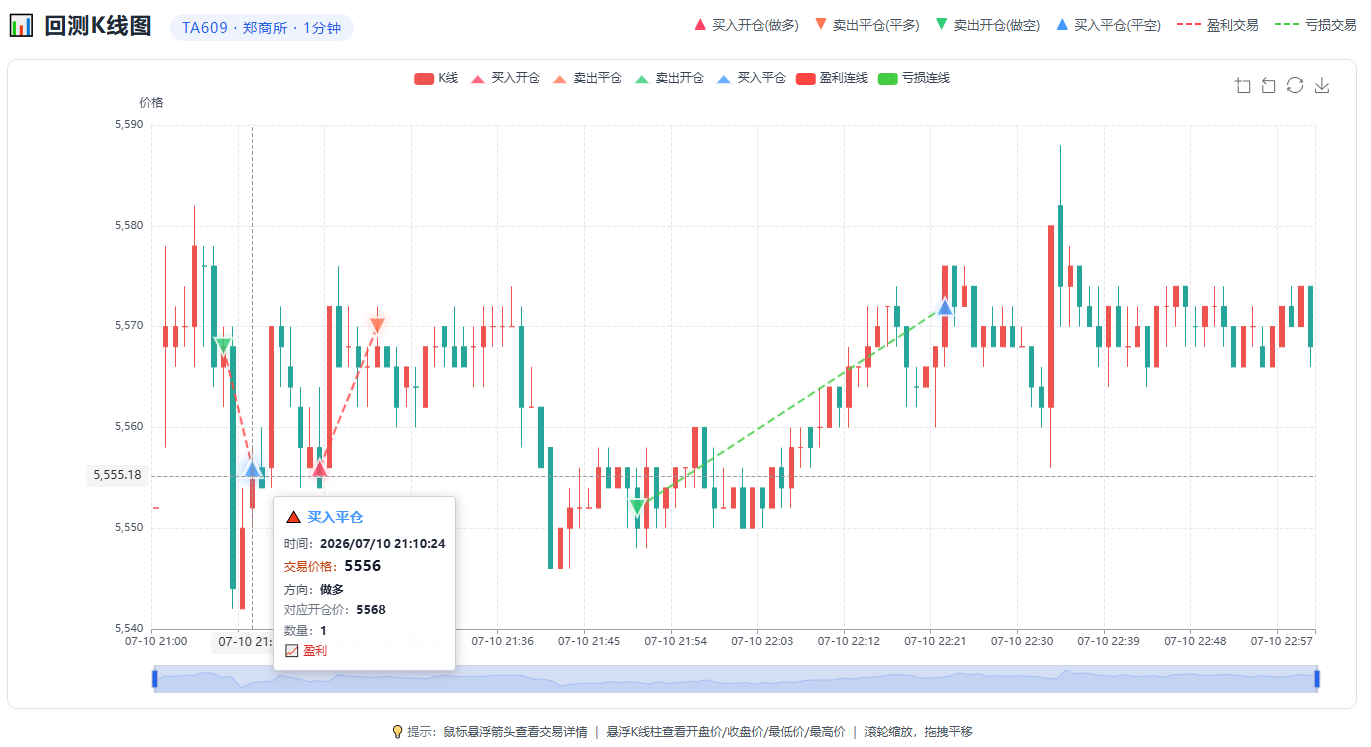
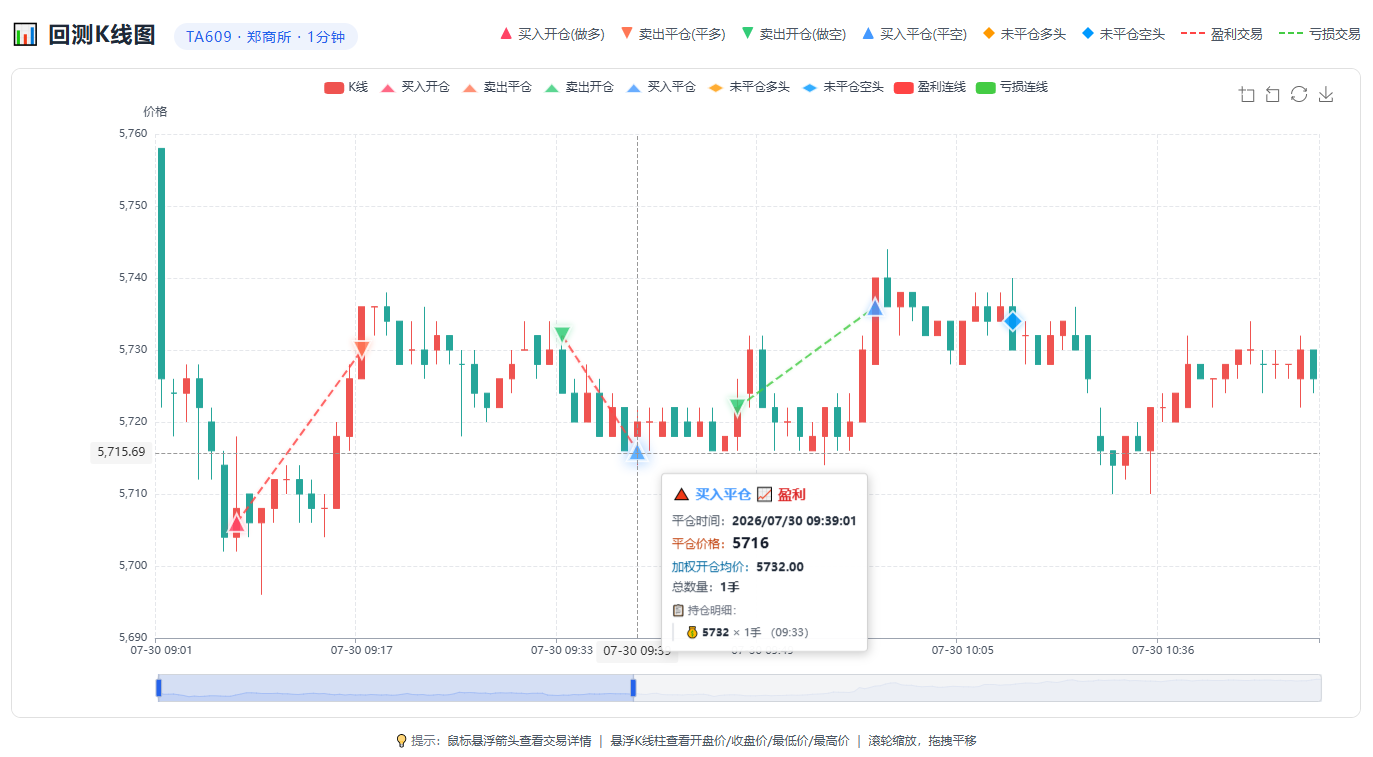
1，优化：类_K线生成器；2，更新：运行示例、images、README.md；3，优化：模块_回测引擎中的参数优化；4，优化：类_回测K线图生成器；5、解决tick表唯一索引造成的数据覆盖。

diff --git a/xmpy/包_交易核心/模块_工具.py b/xmpy/包_交易核心/模块_工具.py
@@ -269,7 +269,7 @@ class 类_K线生成器:
 
         return 小时, 分钟
 
-    def _设置收盘定时器(self, 目标时间: datetime,夜盘 = False) -> None:
+    def _设置收盘定时器(self, 目标时间: datetime, 午盘 = False, 夜盘 = False) -> None:
         """启动一个定时器，在目标时间执行收盘回调"""
         if self.收盘定时器 is not None:
             return
@@ -285,6 +285,10 @@ class 类_K线生成器:
                         目标小时 += 1
                         目标分钟 -= 60
                     self.当前K线.时间戳 = self.最后Tick缓存.时间戳.replace(hour=目标小时, minute=目标分钟, second=0, microsecond=0)
+                elif 午盘:
+                    目标小时 = 11
+                    目标分钟 = 30
+                    self.当前K线.时间戳 = self.最后Tick缓存.时间戳.replace(hour=目标小时, minute=目标分钟, second=0,microsecond=0)
                 else:
                     目标小时 = self.日盘小时
                     目标分钟 = self.日盘分钟
@@ -366,6 +370,22 @@ class 类_K线生成器:
             self._更新K线数据(tick)
             return True
 
+        # 10:15临休
+        if self.当前K线 and tick.时间戳.hour == 10 and 15 <= tick.时间戳.minute <= 16:
+            self._更新K线数据(tick)
+            self.当前K线.时间戳 = self.最后Tick缓存.时间戳.replace(hour=10, minute=15, second=0, microsecond=0)
+            self.K线回调(self.当前K线)
+            self.当前K线 = None
+            return True
+
+        # 11:30午休
+        if self.当前K线 and tick.时间戳.hour == 11 and 30 <= tick.时间戳.minute <= 35:
+            self._更新K线数据(tick)
+            self.当前K线.时间戳 = self.最后Tick缓存.时间戳.replace(hour=11, minute=30, second=0, microsecond=0)
+            self.K线回调(self.当前K线)
+            self.当前K线 = None
+            return True
+
         # 日盘收盘（15:00 或 15:15后不再接受新数据）
         if self.当前K线 and tick.时间戳.hour == self.日盘小时 and 0 <= tick.时间戳.minute <= self.日盘分钟 + 6:
             self._更新K线数据(tick)
@@ -426,6 +446,28 @@ class 类_K线生成器:
             self._更新K线数据(tick)
             return True
 
+        # 10:15临休
+        if self.当前K线 and tick.时间戳.hour == 10 and 15 <= tick.时间戳.minute <= 16:
+            self._更新K线数据(tick)
+            self.当前K线.时间戳 = self.最后Tick缓存.时间戳.replace(hour=10, minute=15, second=0, microsecond=0)
+            self.K线回调(self.当前K线)
+            self.当前K线 = None
+            return True
+
+        # 11:30午休
+        if self.当前K线 and tick.时间戳.hour == 11 and tick.时间戳.minute == 29:
+            if self.收盘定时器 is None:
+                目标小时 = 11
+                目标分钟 = 29
+
+                目标分钟 += 7
+                if 目标分钟 >= 60:
+                    目标小时 += 1
+                    目标分钟 -= 60
+                目标时间 = datetime.now().replace(hour=目标小时, minute=目标分钟, second=0, microsecond=0)
+                self._设置收盘定时器(目标时间, 午盘 = True)
+                return False
+
         # 日盘收盘
         if self.当前K线 and tick.时间戳.hour == self.日盘小时 and tick.时间戳.minute == self.日盘分钟:
             if self.收盘定时器 is None:
@@ -455,7 +497,7 @@ class 类_K线生成器:
                 目标时间 = datetime.now().replace(hour=目标小时, minute=目标分钟, second=0, microsecond=0)
                 # print(f'看一下：{self.夜盘小时}   {self.夜盘分钟}')
                 # print(f'看一下2：{tick}')
-                self._设置收盘定时器(目标时间,夜盘=True)
+                self._设置收盘定时器(目标时间, 夜盘=True)
                 return False
 
         return False
@@ -876,6 +918,31 @@ def 生成交易对(交易列表: list) -> List[Dict[str, Any]]:
 
                 if 开仓记录["数量"] == 0:
                     多头交易列表.popleft()
+
+    # ---- 处理剩余未平仓持仓 ----
+    for 持仓 in 多头交易列表:
+        if 持仓["数量"] > 0:
+            交易对列表.append({
+                "开仓时间": 持仓["时间戳"] + timedelta(minutes=1),
+                "开仓价格": 持仓["价格"],
+                "平仓时间": None,  # 尚未平仓
+                "平仓价格": None,
+                "开仓方向": 类_方向.做多,
+                "平仓方向": None,
+                "数量": 持仓["数量"]
+            })
+
+    for 持仓 in 空头交易列表:
+        if 持仓["数量"] > 0:
+            交易对列表.append({
+                "开仓时间": 持仓["时间戳"] + timedelta(minutes=1),
+                "开仓价格": 持仓["价格"],
+                "平仓时间": None,
+                "平仓价格": None,
+                "开仓方向": 类_方向.做空,
+                "平仓方向": None,
+                "数量": 持仓["数量"]
+            })
 
     return 交易对列表
 

diff --git a/运行示例/run_行情数据记录.py b/运行示例/run_行情数据记录.py
@@ -119,8 +119,13 @@ def 运行父进程():
 
         # 非交易时段关闭子进程
         if not 是否交易时段 and 子进程 is not None:
-            if 子进程.is_alive():
-                print("检测到正在运行的子进程，强制终止")
+            if not 子进程.is_alive():
+                子进程.join()
+                子进程 = None
+                print("子进程关闭成功")
+
+            elif 子进程.is_alive():
+                print("检测到正在运行的子进程，关闭子进程")
                 子进程.terminate()  # 发送SIGTERM信号
                 子进程.join(timeout=5)  # 等待5秒正常退出
 
@@ -130,12 +135,8 @@ def 运行父进程():
                     子进程.join()
                     print("执行强制杀死完毕")
 
-            if not 子进程.is_alive():
-                子进程 = None
-                print("子进程关闭成功")
 
-
-        sleep(5)
+        sleep(15)
 
 
 if __name__ == "__main__":

diff --git a/运行示例/run_添加新策略_再运行所有策略.py b/运行示例/run_添加新策略_再运行所有策略.py
@@ -171,10 +171,23 @@ def 运行父进程():
         # 非交易时段关闭子进程
         if not 是否交易时段 and 子进程 is not None:
             if not 子进程.is_alive():
+                子进程.join()
                 子进程 = None
                 print("子进程关闭成功")
 
-        sleep(5)
+            elif 子进程.is_alive():
+                print("检测到正在运行的子进程，关闭子进程")
+                子进程.terminate()  # 发送SIGTERM信号
+                子进程.join(timeout=5)  # 等待5秒正常退出
+
+                if 子进程.is_alive():  # 如果仍未退出
+                    print("子进程拒绝退出，强制杀死")
+                    子进程.kill()  # 发送SIGKILL信号
+                    子进程.join()
+                    print("执行强制杀死完毕")
+
+
+        sleep(15)
 
 
 if __name__ == "__main__":

diff --git a/运行示例/run_运行单个策略.py b/运行示例/run_运行单个策略.py
@@ -151,10 +151,23 @@ def 运行父进程():
         # 非交易时段关闭子进程
         if not 是否交易时段 and 子进程 is not None:
             if not 子进程.is_alive():
+                子进程.join()
                 子进程 = None
                 print("子进程关闭成功")
 
-        sleep(5)
+            elif 子进程.is_alive():
+                print("检测到正在运行的子进程，关闭子进程")
+                子进程.terminate()  # 发送SIGTERM信号
+                子进程.join(timeout=5)  # 等待5秒正常退出
+
+                if 子进程.is_alive():  # 如果仍未退出
+                    print("子进程拒绝退出，强制杀死")
+                    子进程.kill()  # 发送SIGKILL信号
+                    子进程.join()
+                    print("执行强制杀死完毕")
+
+
+        sleep(15)
 
 
 if __name__ == "__main__":

diff --git a/运行示例/run_运行所有策略.py b/运行示例/run_运行所有策略.py
@@ -124,10 +124,23 @@ def 运行父进程():
         # 非交易时段关闭子进程
         if not 是否交易时段 and 子进程 is not None:
             if not 子进程.is_alive():
+                子进程.join()
                 子进程 = None
                 print("子进程关闭成功")
 
-        sleep(5)
+            elif 子进程.is_alive():
+                print("检测到正在运行的子进程，关闭子进程")
+                子进程.terminate()  # 发送SIGTERM信号
+                子进程.join(timeout=5)  # 等待5秒正常退出
+
+                if 子进程.is_alive():  # 如果仍未退出
+                    print("子进程拒绝退出，强制杀死")
+                    子进程.kill()  # 发送SIGKILL信号
+                    子进程.join()
+                    print("执行强制杀死完毕")
+
+
+        sleep(15)
 
 
 if __name__ == "__main__":

diff --git a/xmpy/__init__.py b/xmpy/__init__.py
@@ -1,1 +1,1 @@
-__version__ = "1.0.9"
+__version__ = "1.1.0"

diff --git a/README.md b/README.md
@@ -1,7 +1,5 @@
 # xmpy量化框架
 
-xmpy—— 专为中文母语开发者打造的量化交易研发框架。
-
 ## 📖 项目背景
 
 初衷：最初是为了编写一个交易策略，在对比多个框架后选择了[vnpy](https://github.com/vnpy/vnpy)。其文档详尽，但入门仍需较长时间阅读文档和源码。考虑到我无需图形化界面，并希望以中文提升后续策略开发与维护的友好性，决定基于examples/no_ui/run.py进行全面中文重构。
@@ -13,6 +11,8 @@ xmpy—— 专为中文母语开发者打造的量化交易研发框架。
   <img src="images/回测K线图_示例1.png" alt="示例1" width=80%/>
   <br><br>
   <img src="images/回测K线图_示例2.png" alt="示例2" width=80%/>
+  <br><br>
+  <img src="images/回测K线图_示例3.png" alt="示例2" width=80%/>
 </p>
 ## 接口
 
@@ -198,10 +198,23 @@ def 运行父进程():
         # 非交易时段关闭子进程
         if not 是否交易时段 and 子进程 is not None:
             if not 子进程.is_alive():
+                子进程.join()
                 子进程 = None
                 print("子进程关闭成功")
 
-        sleep(5)
+            elif 子进程.is_alive():
+                print("检测到正在运行的子进程，关闭子进程")
+                子进程.terminate()  # 发送SIGTERM信号
+                子进程.join(timeout=5)  # 等待5秒正常退出
+
+                if 子进程.is_alive():  # 如果仍未退出
+                    print("子进程拒绝退出，强制杀死")
+                    子进程.kill()  # 发送SIGKILL信号
+                    子进程.join()
+                    print("执行强制杀死完毕")
+
+
+        sleep(15)
 
 
 if __name__ == "__main__":
